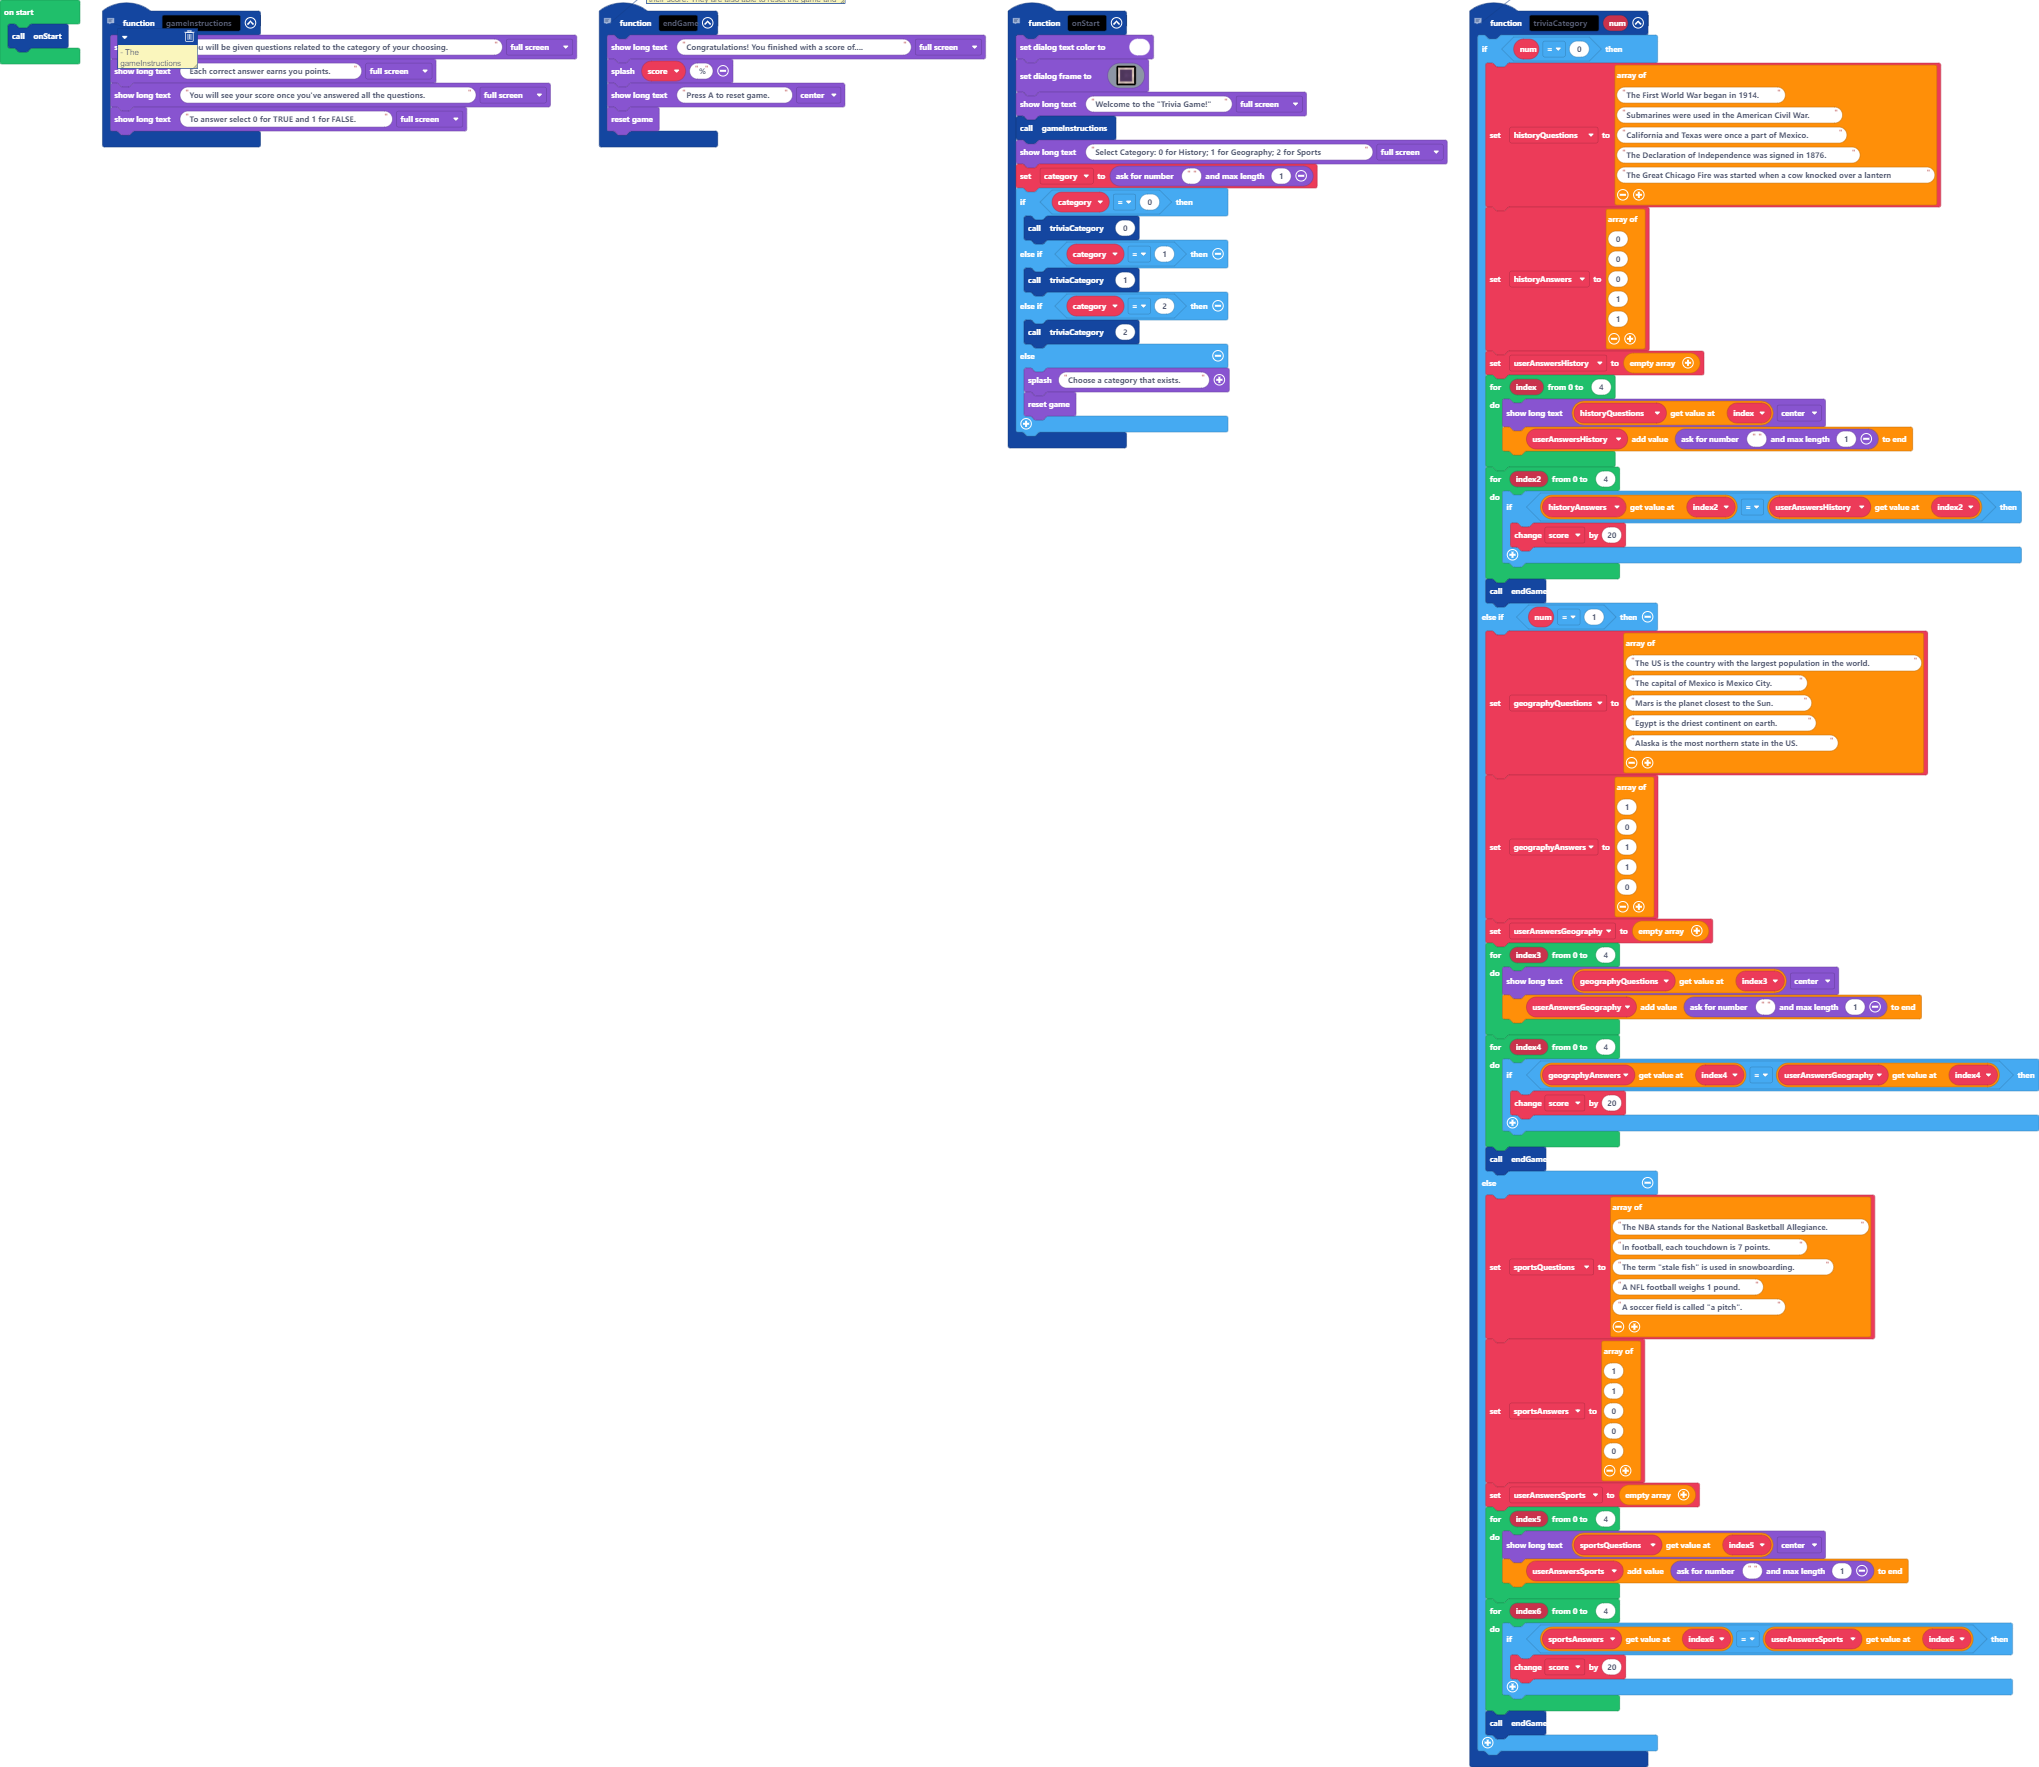
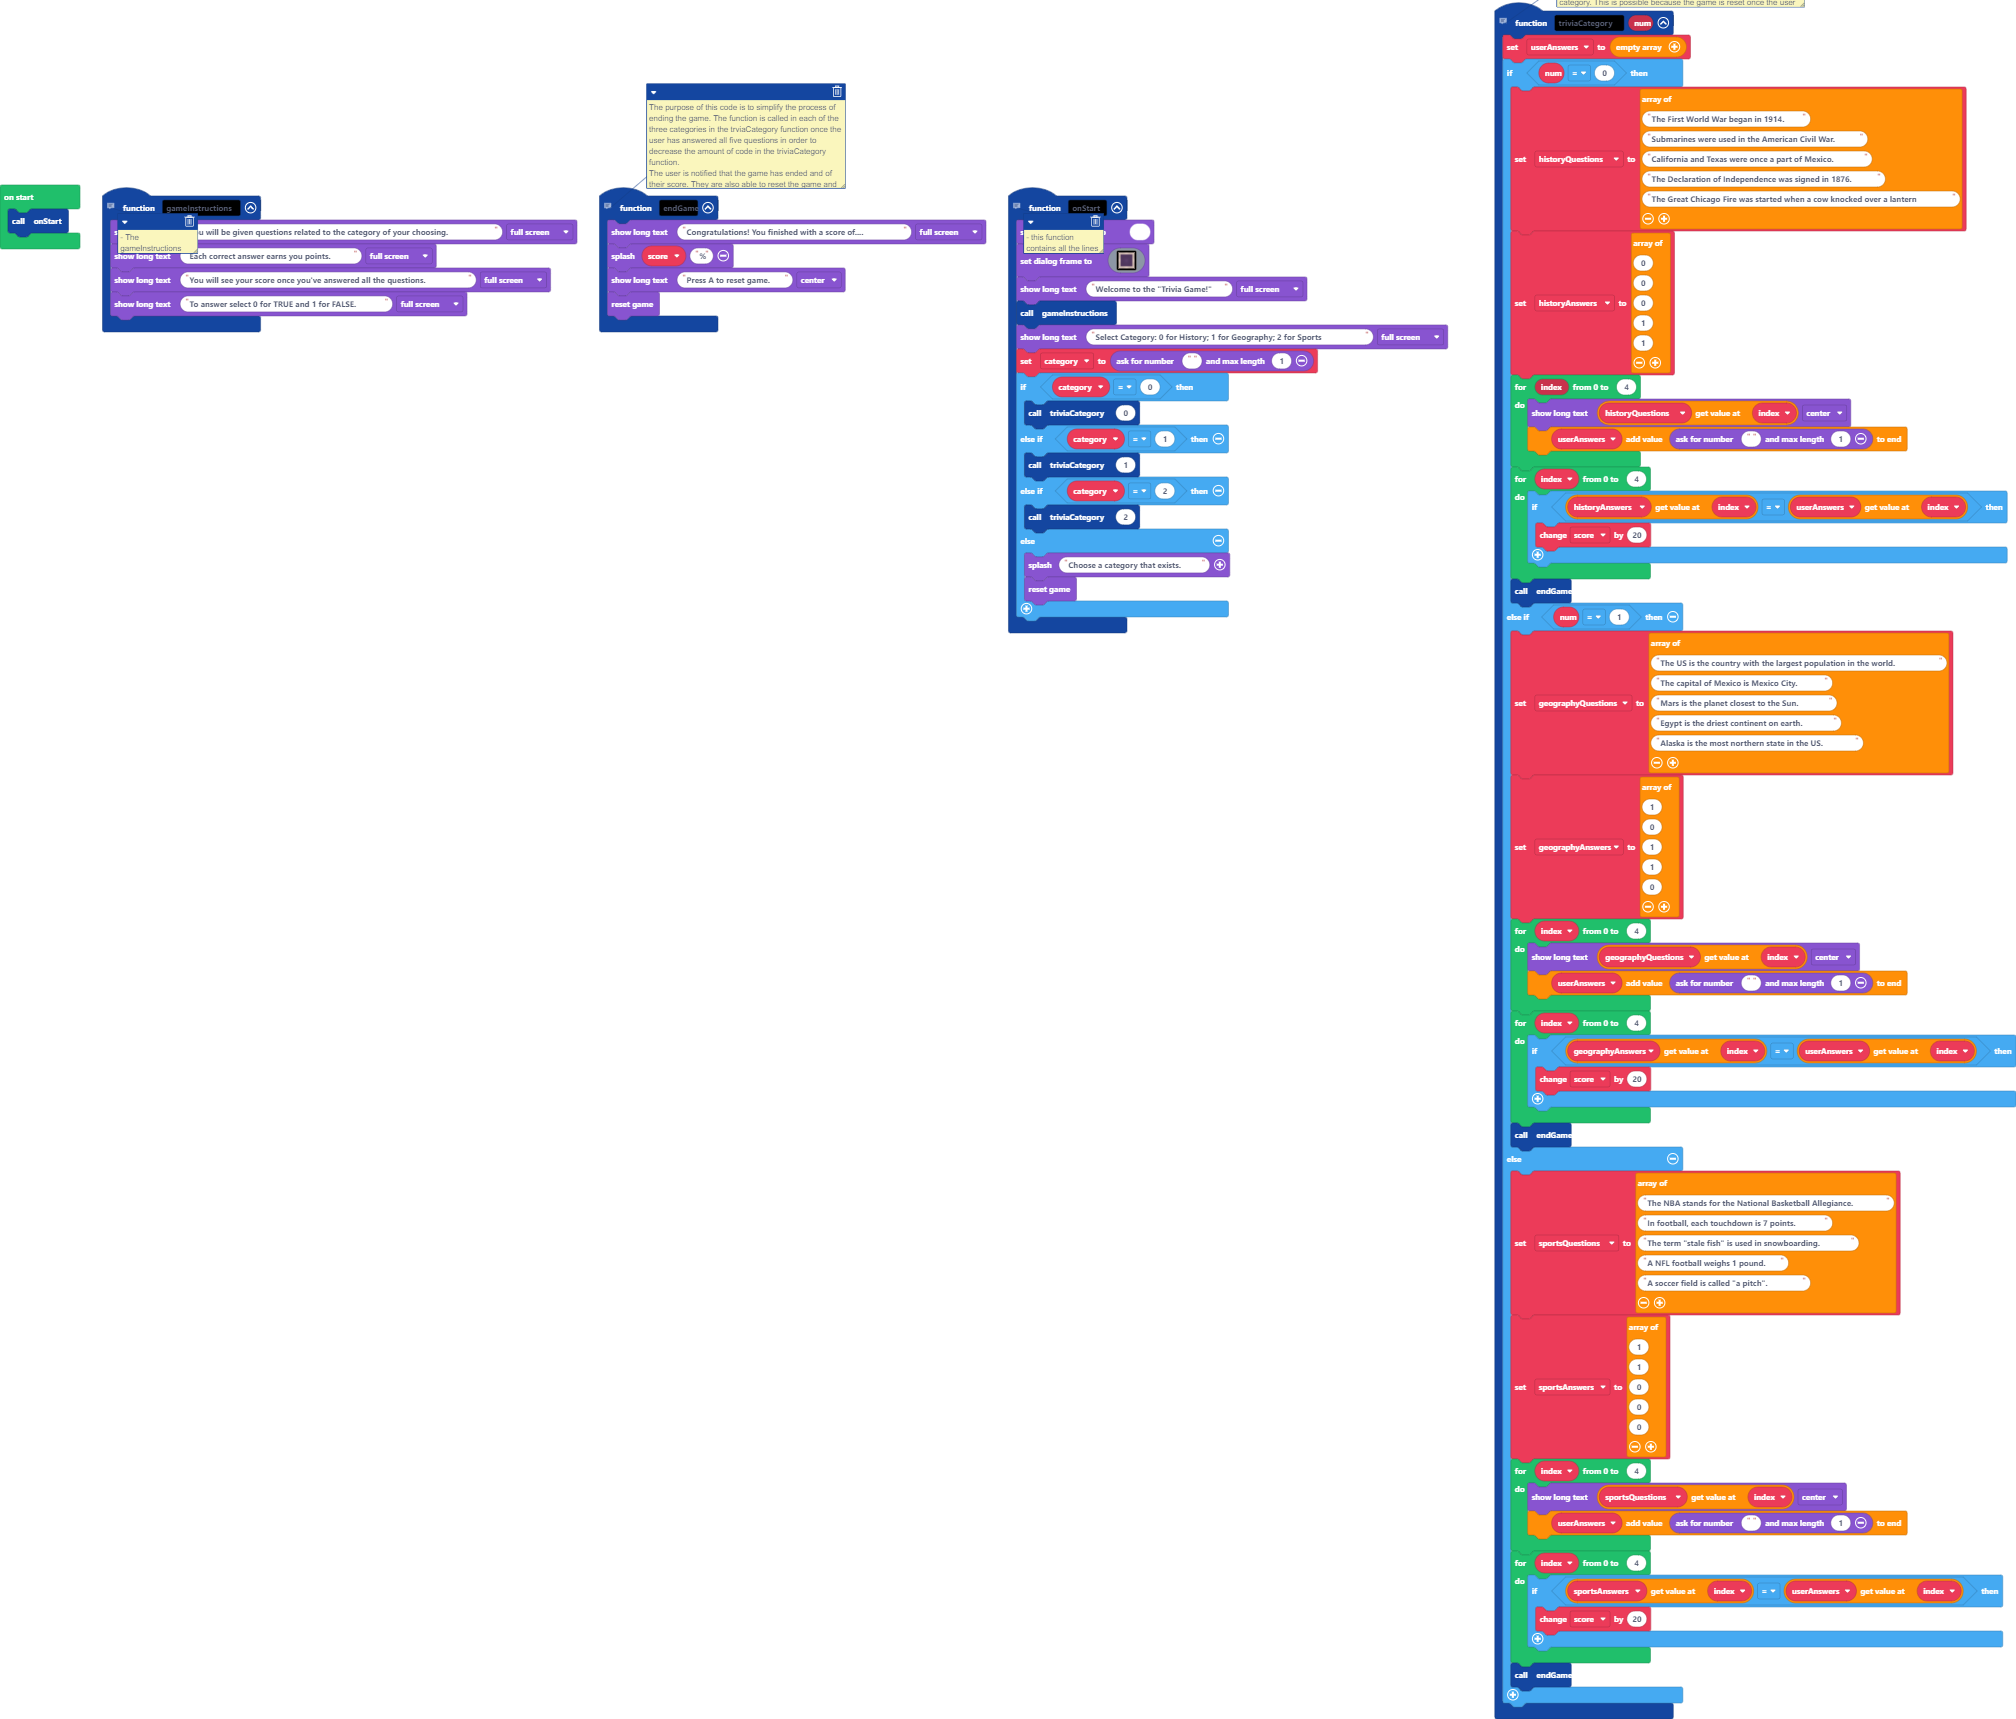
Update main.blocks, main.ts

Changed region(s): [[0.0, 0.0, 1.0, 1.0]]

diff --git a/main.ts b/main.ts
@@ -56,8 +56,9 @@ function onStart () {
         game.reset()
     }
 }
-// The intention behind the triviaCategory function is to streamline the process between the user choosing their category and being asked questions related to the category. Each category is represented by a number, which the user selects. This sets the questions as well as the answers, which is stored in (categoryname)Questions and (categoryname)Answers
+// The intention behind the triviaCategory function is to streamline the process between the user choosing their category and being asked questions related to the category. Each category is represented by a number, which the user selects. This sets the questions as well as the answers, which is stored in (categoryname)Questions and (categoryname)Answers, respectively, where the variable name is different for each category. The answers the user provides are stored in userAnswers, which is a  single variable, not respective of the category. This is possible because the game is reset once the user answers all questions for a category, which makes separating this variable based on category unnecessary,.
 function triviaCategory (num: number) {
+    userAnswers = []
     if (num == 0) {
         historyQuestions = [
         "The First World War began in 1914.",
@@ -73,13 +74,12 @@ function triviaCategory (num: number) {
         1,
         1
         ]
-        userAnswersHistory = []
         for (let index = 0; index <= 4; index++) {
             game.showLongText(historyQuestions[index], DialogLayout.Center)
-            userAnswersHistory.push(game.askForNumber("", 1))
+            userAnswers.push(game.askForNumber("", 1))
         }
-        for (let index2 = 0; index2 <= 4; index2++) {
-            if (historyAnswers[index2] == userAnswersHistory[index2]) {
+        for (let index = 0; index <= 4; index++) {
+            if (historyAnswers[index] == userAnswers[index]) {
                 score += 20
             }
         }
@@ -99,13 +99,12 @@ function triviaCategory (num: number) {
         1,
         0
         ]
-        userAnswersGeography = []
-        for (let index3 = 0; index3 <= 4; index3++) {
-            game.showLongText(geographyQuestions[index3], DialogLayout.Center)
-            userAnswersGeography.push(game.askForNumber("", 1))
+        for (let index = 0; index <= 4; index++) {
+            game.showLongText(geographyQuestions[index], DialogLayout.Center)
+            userAnswers.push(game.askForNumber("", 1))
         }
-        for (let index4 = 0; index4 <= 4; index4++) {
-            if (geographyAnswers[index4] == userAnswersGeography[index4]) {
+        for (let index = 0; index <= 4; index++) {
+            if (geographyAnswers[index] == userAnswers[index]) {
                 score += 20
             }
         }
@@ -125,28 +124,25 @@ function triviaCategory (num: number) {
         0,
         0
         ]
-        userAnswersSports = []
-        for (let index5 = 0; index5 <= 4; index5++) {
-            game.showLongText(sportsQuestions[index5], DialogLayout.Center)
-            userAnswersSports.push(game.askForNumber("", 1))
+        for (let index = 0; index <= 4; index++) {
+            game.showLongText(sportsQuestions[index], DialogLayout.Center)
+            userAnswers.push(game.askForNumber("", 1))
         }
-        for (let index6 = 0; index6 <= 4; index6++) {
-            if (sportsAnswers[index6] == userAnswersSports[index6]) {
+        for (let index = 0; index <= 4; index++) {
+            if (sportsAnswers[index] == userAnswers[index]) {
                 score += 20
             }
         }
         endGame()
     }
 }
-let userAnswersSports: number[] = []
 let sportsAnswers: number[] = []
 let sportsQuestions: string[] = []
-let userAnswersGeography: number[] = []
 let geographyAnswers: number[] = []
 let geographyQuestions: string[] = []
-let userAnswersHistory: number[] = []
 let historyAnswers: number[] = []
 let historyQuestions: string[] = []
+let userAnswers: number[] = []
 let category = 0
 let score = 0
 onStart()
